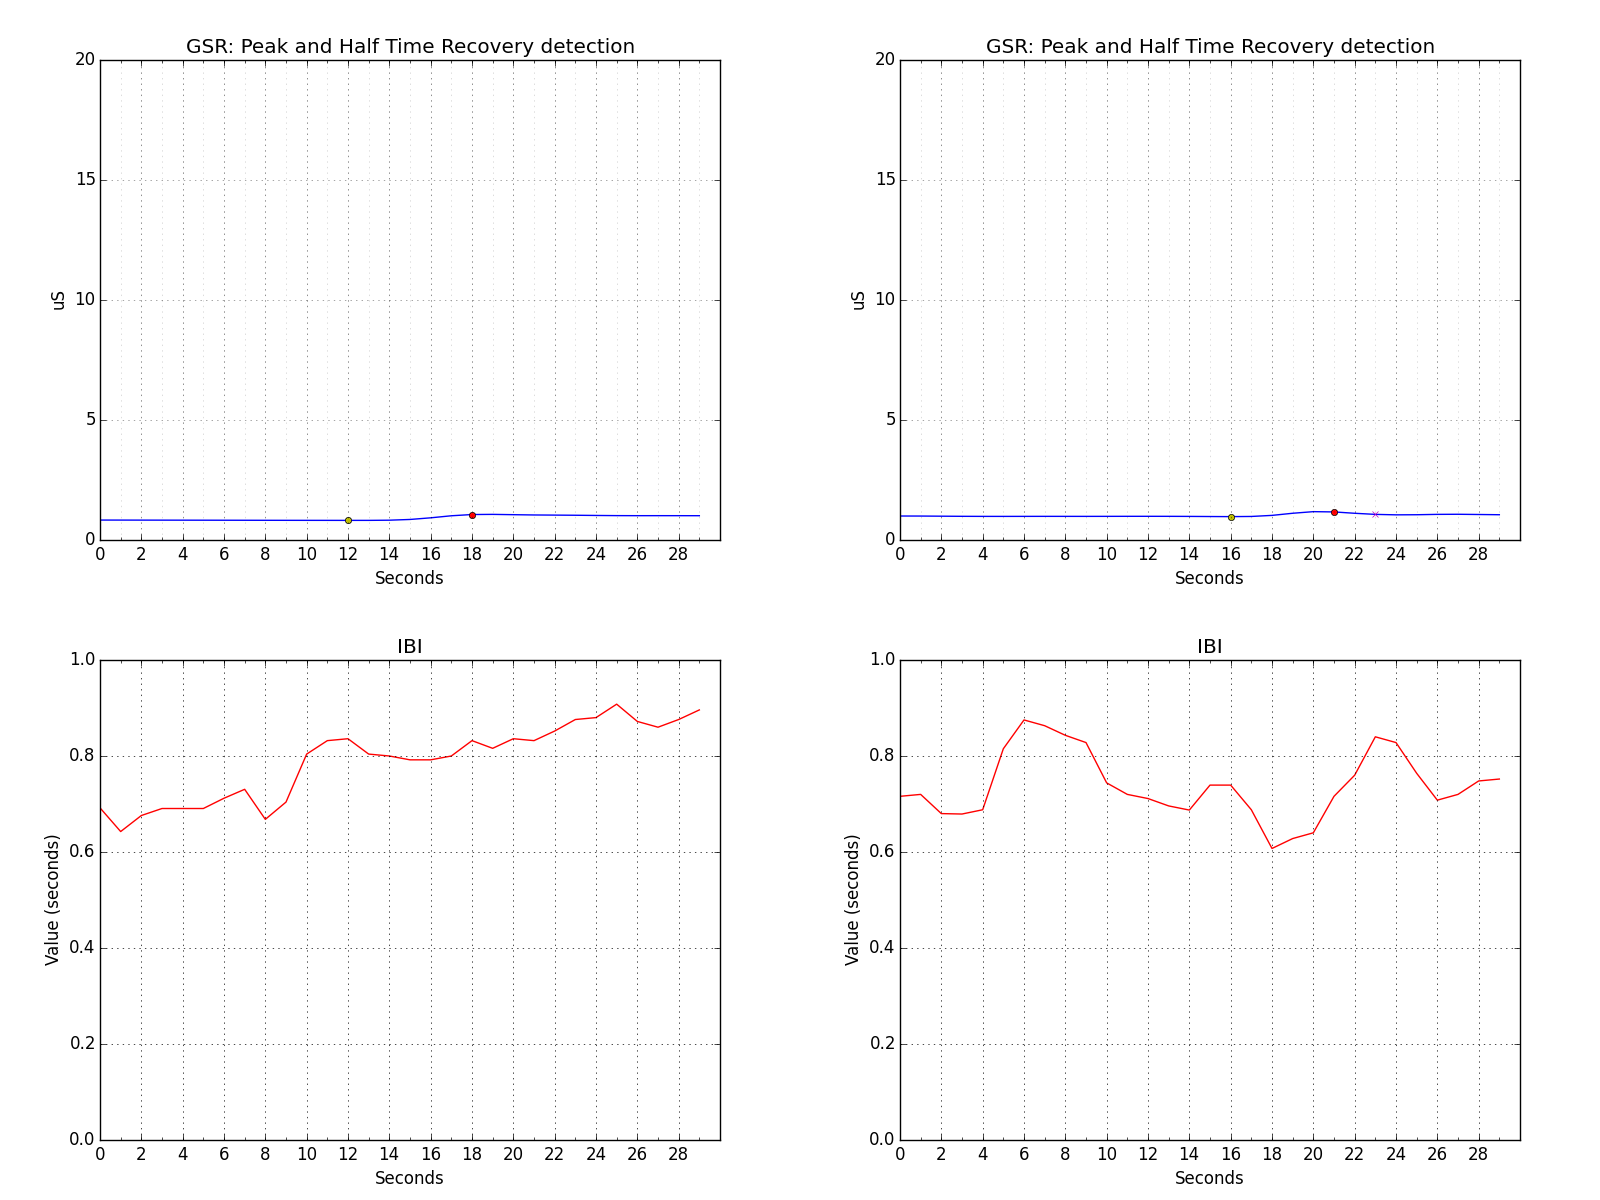
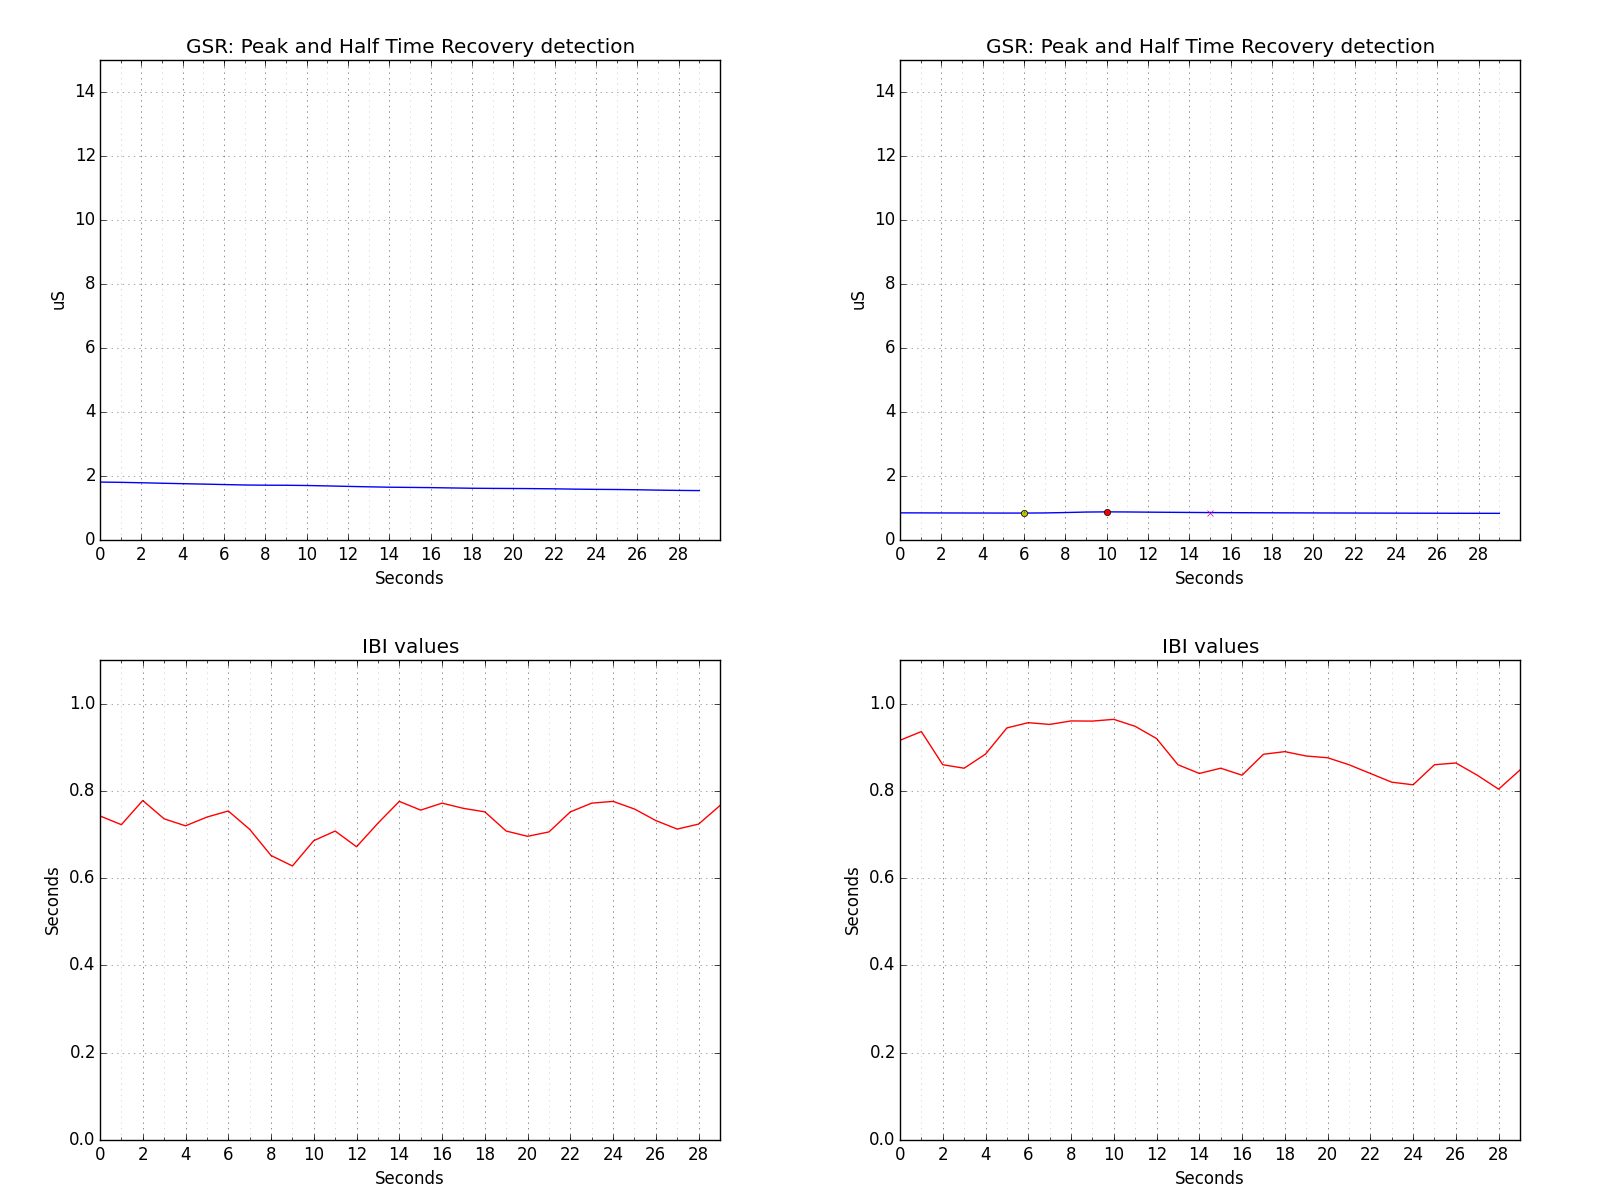
done for today

diff --git a/process.py b/process.py
@@ -337,12 +337,12 @@ def getFts(_s,plot=False,gsr=None,ibi=None):
                 if(gsr):
                     htr = HalfRecoveryTimeDetector(_segment1)
                     if(plot):
-                        htr.plot("plots/GSR_"+str(_dataSR[_z])+"_"+str(_z)+"_1",_ylim=[1,2],_xTick=2)
+                        htr.plot("plots/GSR_"+str(_dataSR[_z])+"_"+str(_z)+"_1",_ylim=[0,15],_xTick=2)
                     for _f in htr.extract():
                         _s1Features.append(_f)
                     htr = HalfRecoveryTimeDetector(_segment2)
                     if(plot):
-                        htr.plot("plots/GSR_"+str(_dataSR[_z])+"_"+str(_z)+"_2",_ylim=[1,2],_xTick=2)
+                        htr.plot("plots/GSR_"+str(_dataSR[_z])+"_"+str(_z)+"_2",_ylim=[0,15],_xTick=2)
                     for _f in htr.extract():
                         _s2Features.append(_f)
 
@@ -351,7 +351,7 @@ def getFts(_s,plot=False,gsr=None,ibi=None):
                         ibife = IBIFeatureExtractor(_dataAvgBySecIBI[_x-30:_x])
                         if(plot):
                             _path = "plots/ibi_%s_%i_1" %(_tag,_segmentNumber)
-                            ibife.plot(_path)
+                            ibife.plot(_path,_limy=[0.0,1.1])
                         for _f in ibife.extract():
                             _s1Features.append(_f)
                     except:
@@ -362,7 +362,7 @@ def getFts(_s,plot=False,gsr=None,ibi=None):
                         ibife = IBIFeatureExtractor(_dataAvgBySecIBI[_x:_x+30])
                         if(plot):
                             _path = "plots/ibi_%s_%i_2" %(_tag,_segmentNumber)
-                            ibife.plot(_path)
+                            ibife.plot(_path,_limy=[0.0,1.1])
                         for _f in ibife.extract():
                             _s2Features.append(_f)
                     except:
@@ -511,5 +511,5 @@ if (__name__ == "__main__"):
     if("ibi" in _signals):
         _getIBI = True
     for _s in getSessions(_data):
-        #getFts(_s,plot=False,gsr=_getGSR,ibi=_getIBI)
-        plotSessionSR(_s,"plotSR.png")
+        getFts(_s,plot=True,gsr=_getGSR,ibi=_getIBI)
+        #plotSessionSR(_s,"plotSR.png")

diff --git a/IBIFeatureExtractor.py b/IBIFeatureExtractor.py
@@ -31,13 +31,12 @@ class IBIFeatureExtractor:
                 _sdsd = numpy.std(_succ_diffs)
 		self._IBIFeatures = [_min,_avg,_sd]
 		return self._IBIFeatures
-        def plot(self,_path ,_limx=None,_limy=None,_session=None,_xTick=200,_xMinorTick=100):
+        def plot(self,_path ,_limx=None,_limy=None,_session=None,_xTick=2,_xMinorTick=1):
                 _title_raw = "IBI"
                 _path_raw = _path
                 fig, ax = plt.subplots()
                 index = numpy.arange(len (self._data))
                 plt.grid(True)
-                plt.plot(self._data) #plot the processed data
 
                 major_ticks = numpy.arange(0, len(self._data), _xTick)
                 minor_ticks = numpy.arange(0, len(self._data), _xMinorTick)
@@ -47,7 +46,9 @@ class IBIFeatureExtractor:
                 # or if you want differnet settings for the grids:                               
                 ax.grid(which='minor', alpha=0.2)
                 ax.grid(which='major', alpha=0.5)
-
+                if (_limy == None):
+                        _limy = [0,1.1]
+                plt.ylim(_limy)
                 #major_ticks_y = np.arange(0, 1.1, 0.2)                                              
                 #minor_ticks_y = np.arange(0, 1.1, 0.1)     
                 ax.set_xticks(major_ticks)
@@ -56,6 +57,7 @@ class IBIFeatureExtractor:
                 ax.set_ylabel("Seconds")
                 ax.set_xlabel("Seconds")
                 ax.set_title("IBI values")
+                plt.plot(self._data,color="red") #plot the processed data
 
                 if(_session != None):
                     if (_session._SRRanges != None):
